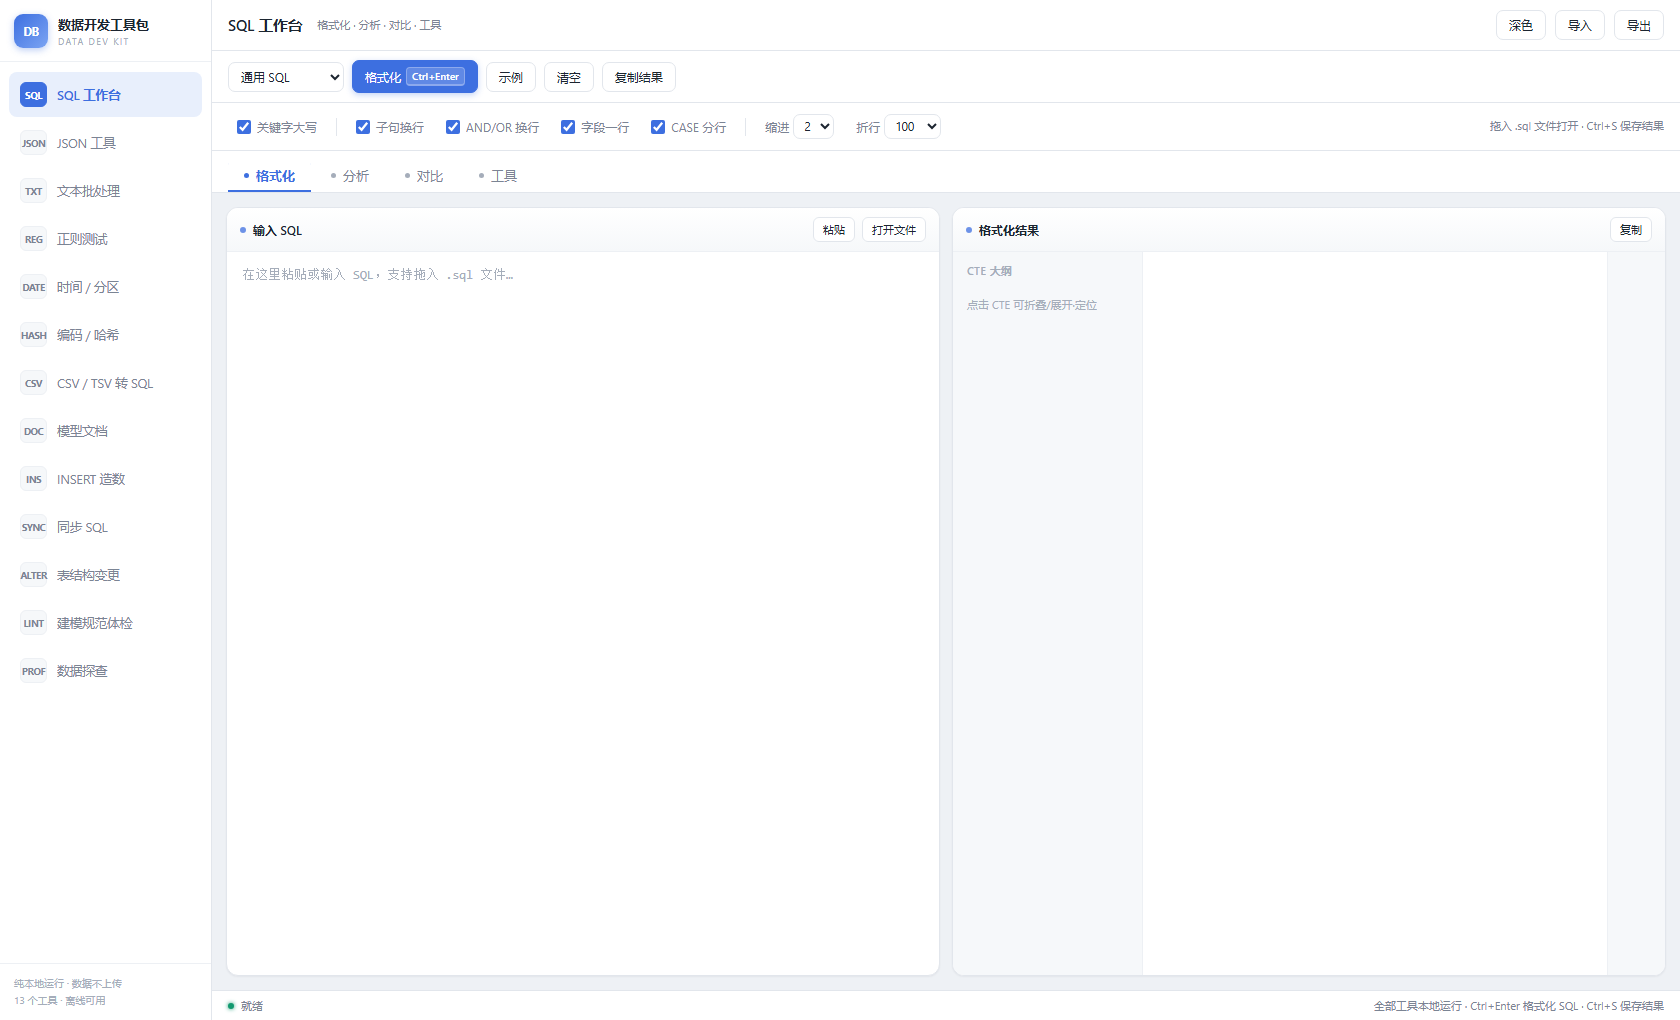
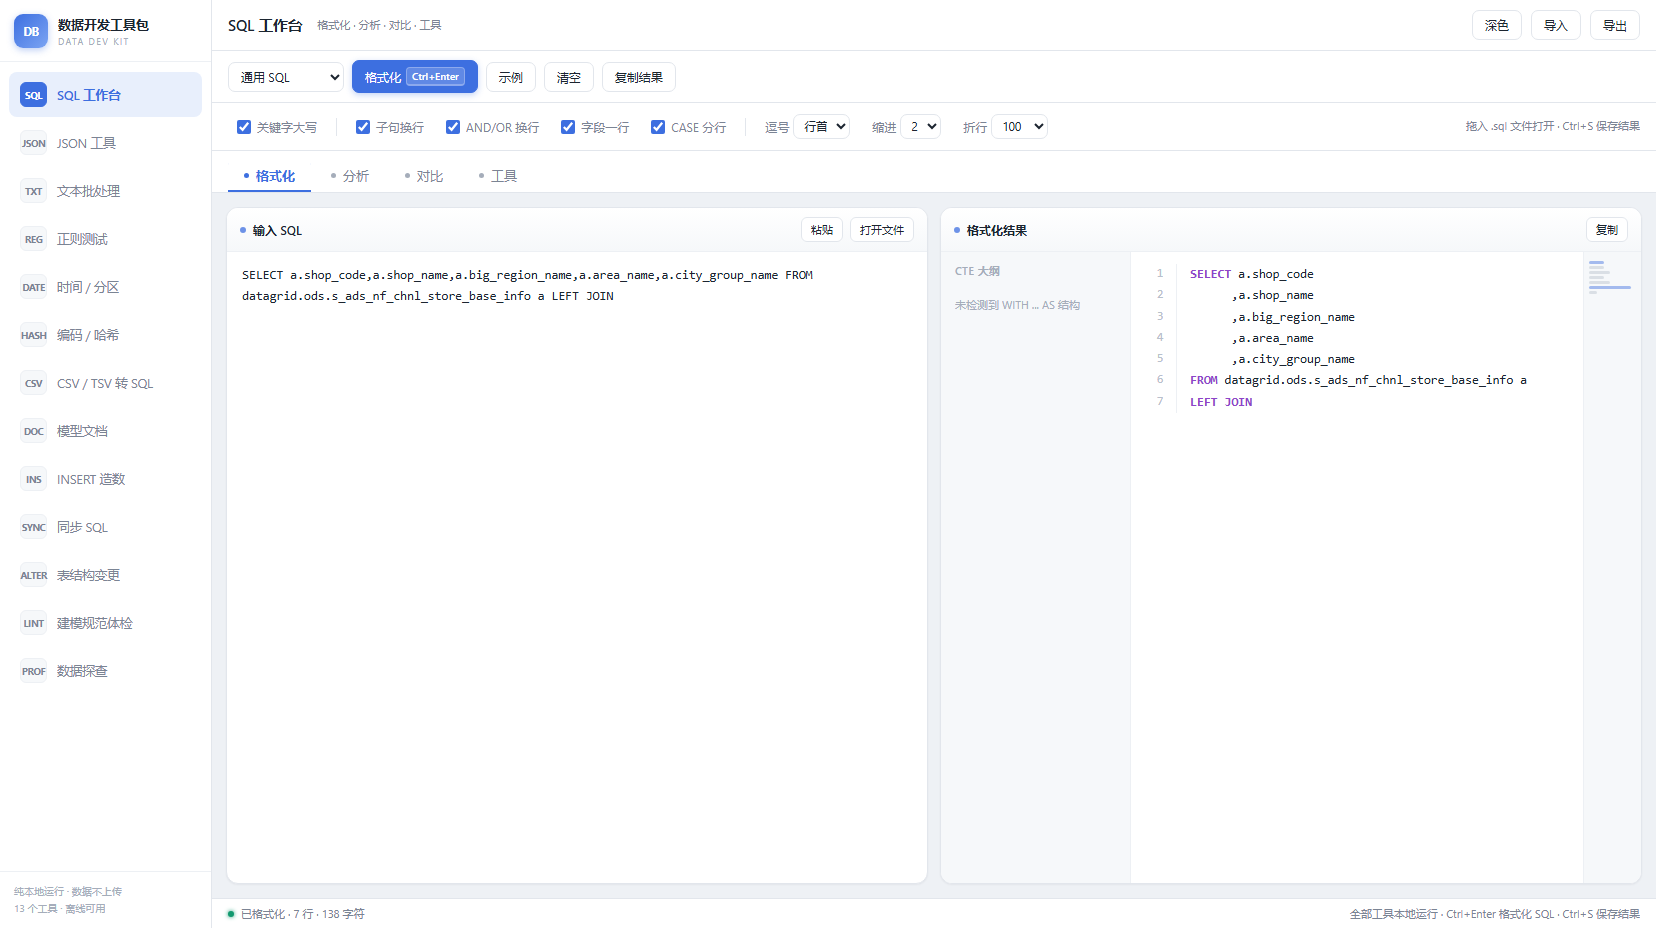
feat(fmt): 新增「行首逗号」格式风格
- formatter.js: 新增 commaStyle 选项（leading / trailing），leading 时首字段与 SELECT 同行，续行逗号左对齐到首字段前一列，逗号后不留空格
- 支持 pad 绝对列宽渲染（文本、高亮、折行三处），CASE 在续行时按 pad 换算缩进
- index.html: 选项栏新增「逗号」下拉，opts/collectCfg/loadCfg 同步
- README: 补充逗号风格说明
- 行尾风格输出与旧版逐字节一致（回归 16 组组合验证）

diff --git a/formatter.js b/formatter.js
@@ -237,11 +237,11 @@
     var out = [];
     for (var li = 0; li < lines.length; li++) {
       var ln = lines[li];
-      var len = ln.indent * indentSize;
+      var len = (ln.pad != null) ? ln.pad : ln.indent * indentSize;
       for (var q = 0; q < ln.parts.length; q++) len += ln.parts[q].text.length;
       if (len <= maxWidth) { out.push(ln); continue; }
-      var cur = { indent: ln.indent, parts: [] };
-      var curLen = ln.indent * indentSize;
+      var cur = (ln.pad != null) ? { pad: ln.pad, parts: [] } : { indent: ln.indent, parts: [] };
+      var curLen = (ln.pad != null) ? ln.pad : ln.indent * indentSize;
       var depth = 0;
       for (var pi = 0; pi < ln.parts.length; pi++) {
         var p = ln.parts[pi];
@@ -252,8 +252,8 @@
         else if (v === ')') depth = Math.max(0, depth - 1);
         if (v === ',' && depth === 0 && curLen > maxWidth * 0.65) {
           out.push(cur);
-          cur = { indent: ln.indent + 1, parts: [] };
-          curLen = (ln.indent + 1) * indentSize;
+          cur = (ln.pad != null) ? { pad: ln.pad, parts: [] } : { indent: ln.indent + 1, parts: [] };
+          curLen = (ln.pad != null) ? ln.pad : (ln.indent + 1) * indentSize;
         }
       }
       if (cur.parts.length) out.push(cur);
@@ -270,6 +270,8 @@
     var maxWidth = options.maxWidth || 100;
     var fieldPerLine = options.fieldPerLine !== false;   // SELECT 列表一字段一行
     var casePerLine = options.casePerLine !== false;     // CASE 每个 WHEN 一行
+    // 逗号位置：'trailing' 行尾（默认），'leading' 行首且首字段跟在 SELECT 同一行
+    var commaStyle = options.commaStyle === 'leading' ? 'leading' : 'trailing';
     var ctx = makeContext(options.dialect || 'generic');
     var KW = ctx.kw, FN = ctx.fn, CLAUSES = ctx.clauses;
 
@@ -282,14 +284,28 @@
     var stmtLevel = 0, stmtIndent = 0, cteStack = [], afterCteClose = false;
     var caseStack = [];                       // CASE 起始行缩进
     var listDepth = -1, listIndent = 0;       // 正在拆行的字段列表（-1 表示无）
+    var leadCommaPad = -1;                    // 行首逗号风格的续行列宽（-1 表示不启用）
+    var noSpaceNext = false;                  // 行首逗号后紧跟字段，不要空格
 
     function newLine(level) {
       if (cur.parts.length) lines.push(cur);
       cur = { indent: level, parts: [] };
       prev = null;
     }
+    // 行首逗号风格：续行按绝对列宽对齐（pad），而不是按缩进层级
+    function newLinePad(col) {
+      if (cur.parts.length) lines.push(cur);
+      cur = { indent: 0, pad: col, parts: [] };
+      prev = null;
+    }
+    function curWidth() {
+      var total = (cur.pad != null) ? cur.pad : cur.indent * indentSize;
+      for (var q = 0; q < cur.parts.length; q++) total += cur.parts[q].text.length;
+      return total;
+    }
     function add(t, cls, forceSpace) {
       var space = forceSpace === undefined ? defaultSpace(t, prev, KW, FN) : forceSpace;
+      if (noSpaceNext) { space = false; noSpaceNext = false; }
       var text = (cur.parts.length && space ? ' ' : '') + t.value;
       cur.parts.push({ text: text, cls: cls });
       prev = t;
@@ -305,7 +321,7 @@
       if (clauseLines && parenDepth === stmtLevel && caseDepth === 0) {
         var plen = matchPhrase(tokens, i, CLAUSES);
         if (plen > 0) {
-          listDepth = -1;
+          listDepth = -1; leadCommaPad = -1;
           newLine(stmtIndent);
           for (var k = 0; k < plen; k++) {
             var pt = tokens[i + k];
@@ -321,8 +337,13 @@
             }
             if (countFields(tokens, i + 1, CLAUSES) > 1) {
               listDepth = parenDepth;
-              listIndent = stmtIndent + 1;
-              newLine(listIndent);
+              if (commaStyle === 'leading') {
+                // 首字段留在 SELECT 这一行，续行逗号对齐到首字段前一位
+                leadCommaPad = curWidth();
+              } else {
+                listIndent = stmtIndent + 1;
+                newLine(listIndent);
+              }
             }
           }
           continue;
@@ -339,9 +360,11 @@
 
       // CASE ... WHEN ... ELSE ... END：一个 WHEN 一行，ELSE 一行，END 与 CASE 对齐
       if (t.type === 'word' && up === 'CASE') {
+        // 行首逗号风格下续行用 pad 绝对列宽，换算成等效缩进层级给 WHEN/END 用
+        var caseLvl = (cur.pad != null) ? Math.floor(cur.pad / (indentSize || 2)) : cur.indent;
         add({ type: 'word', value: w(up) }, 'kw');
         caseDepth++;
-        caseStack.push(cur.indent);
+        caseStack.push(caseLvl);
         continue;
       }
       if (t.type === 'word' && up === 'WHEN' && caseDepth > 0) {
@@ -371,6 +394,13 @@
 
       // 字段列表：同层逗号后换行（配合 SELECT 一字段一行）
       if (listDepth >= 0 && t.value === ',' && parenDepth === listDepth) {
+        if (commaStyle === 'leading' && leadCommaPad >= 0) {
+          // 逗号挪到下一行行首，紧跟字段（逗号后不留空格）
+          newLinePad(leadCommaPad);
+          add(t, 'punc', false);
+          noSpaceNext = true;
+          continue;
+        }
         add(t, 'punc');
         newLine(listIndent);
         continue;
@@ -391,7 +421,7 @@
 
       // CTE body close: `)` gets its own line at the CTE header level
       if (t.value === ')' && cteStack.length && parenDepth === stmtLevel) {
-        listDepth = -1;
+        listDepth = -1; leadCommaPad = -1;
         newLine(stmtIndent - 1);
         parenDepth--;
         add(t, 'punc');
@@ -413,7 +443,7 @@
       if (t.value === '(') { add(t, 'punc'); parenDepth++; continue; }
       if (t.value === ')') {
         parenDepth = Math.max(0, parenDepth - 1);
-        if (listDepth >= 0 && parenDepth < listDepth) listDepth = -1;
+        if (listDepth >= 0 && parenDepth < listDepth) { listDepth = -1; leadCommaPad = -1; }
         add(t, 'punc');
         continue;
       }
@@ -445,14 +475,15 @@
       if (t.value === ';' && i + 1 < tokens.length) {
         newLine(0);
         stmtLevel = 0; stmtIndent = 0; cteStack = []; afterCteClose = false;
-        caseStack = []; caseDepth = 0; betweenPending = 0; listDepth = -1;
+        caseStack = []; caseDepth = 0; betweenPending = 0; listDepth = -1; leadCommaPad = -1;
       }
     }
     if (cur.parts.length) lines.push(cur);
 
     lines = wrapLongLines(lines, maxWidth, indentSize);
     var text = lines.map(function (ln) {
-      return ' '.repeat(ln.indent * indentSize) + ln.parts.map(function (p) { return p.text; }).join('');
+      var lead = (ln.pad != null) ? ' '.repeat(ln.pad) : ' '.repeat(ln.indent * indentSize);
+      return lead + ln.parts.map(function (p) { return p.text; }).join('');
     }).join('\n');
 
     return { text: text, lines: lines, indentSize: indentSize };
@@ -465,7 +496,7 @@
   function toHtml(result) {
     var ind = ' '.repeat(result.indentSize);
     return result.lines.map(function (ln) {
-      var lead = ind.repeat(ln.indent);
+      var lead = (ln.pad != null) ? ' '.repeat(ln.pad) : ind.repeat(ln.indent);
       var body = ln.parts.map(function (p) {
         return '<span class="t-' + (p.cls || 'plain') + '">' + escapeHtml(p.text) + '</span>';
       }).join('');

diff --git a/index.html b/index.html
@@ -274,6 +274,7 @@
         <label><input type="checkbox" id="optFieldLine" checked> 字段一行</label>
         <label><input type="checkbox" id="optCaseLine" checked> CASE 分行</label>
         <div class="sep"></div>
+        <label class="opt-group">逗号 <select id="optComma"><option value="leading">行首</option><option value="trailing">行尾</option></select></label>
         <label class="opt-group">缩进 <select id="optIndent"><option value="2">2</option><option value="4">4</option><option value="0">0</option></select></label>
         <label class="opt-group">折行 <select id="optWidth"><option value="80">80</option><option value="100" selected>100</option><option value="120">120</option><option value="0">不限</option></select></label>
         <div class="spacer"></div>
@@ -748,6 +749,7 @@
   function opts(){
     return { upper:$('optUpper').checked, clauseLines:$('optClause').checked, wrapLogic:$('optLogic').checked,
       fieldPerLine:$('optFieldLine').checked, casePerLine:$('optCaseLine').checked,
+      commaStyle:$('optComma').value,
       indentSize:parseInt($('optIndent').value,10)||0, maxWidth:parseInt($('optWidth').value,10)||100000,
       dialect:$('dialect').value };
   }
@@ -887,7 +889,7 @@
     var w=prompt('替换结果：\n\n（点确定将替换输入框内容）', sql);
     if(w!==null){ input.value=w; doFormat(); }
   };
-  ['optUpper','optClause','optLogic','optFieldLine','optCaseLine','optIndent','optWidth','dialect'].forEach(function(id){ $(id).addEventListener('change',doFormat); });
+  ['optUpper','optClause','optLogic','optFieldLine','optCaseLine','optComma','optIndent','optWidth','dialect'].forEach(function(id){ $(id).addEventListener('change',doFormat); });
   input.addEventListener('input',schedule);
   input.addEventListener('keydown',function(e){
     if(e.key==='Tab'){e.preventDefault();var s=this.selectionStart,en=this.selectionEnd;this.value=this.value.slice(0,s)+'  '+this.value.slice(en);this.selectionStart=this.selectionEnd=s+2;schedule();}
@@ -906,7 +908,7 @@
   function applyTheme(t){ document.documentElement.setAttribute('data-theme',t); $('btnTheme').textContent=t==='dark'?'浅色':'深色'; localStorage.setItem('sqlwb-theme',t);
     var base=(document.title||'数据开发工具包').replace(/\u200B/g,''); document.title = base + (t==='dark' ? '\u200B' : ''); }
   $('btnTheme').onclick=function(){ applyTheme(document.documentElement.getAttribute('data-theme')==='dark'?'light':'dark'); };
-  function collectCfg(){ return {upper:$('optUpper').checked,clause:$('optClause').checked,logic:$('optLogic').checked,field:$('optFieldLine').checked,caseLine:$('optCaseLine').checked,indent:$('optIndent').value,width:$('optWidth').value,dialect:$('dialect').value,theme:document.documentElement.getAttribute('data-theme')||'light'}; }
+  function collectCfg(){ return {upper:$('optUpper').checked,clause:$('optClause').checked,logic:$('optLogic').checked,field:$('optFieldLine').checked,caseLine:$('optCaseLine').checked,comma:$('optComma').value,indent:$('optIndent').value,width:$('optWidth').value,dialect:$('dialect').value,theme:document.documentElement.getAttribute('data-theme')||'light'}; }
   function loadCfg(c){
     if(!c)return;
     if(c.upper!==undefined)$('optUpper').checked=c.upper;
@@ -914,6 +916,7 @@
     if(c.logic!==undefined)$('optLogic').checked=c.logic;
     if(c.field!==undefined)$('optFieldLine').checked=c.field;
     if(c.caseLine!==undefined)$('optCaseLine').checked=c.caseLine;
+    if(c.comma!==undefined)$('optComma').value=c.comma;
     if(c.indent!==undefined)$('optIndent').value=c.indent;
     if(c.width!==undefined)$('optWidth').value=c.width;
     if(c.dialect!==undefined)$('dialect').value=c.dialect;

diff --git a/README.md b/README.md
@@ -103,6 +103,7 @@
 - `Ctrl + S`：把当前工具的结果保存为本地文件（如 `ddl-change.sql`、`ddl-lint.md`、`profile.sql`）。
 - 顶部可切换 **浅色 / 深色** 主题，选择会被记住。
 - 各工具自带"示例"按钮，不知道怎么填时先点示例。
+- 格式化选项里的「逗号」：**行首**（默认，首字段跟 `SELECT` 同行，后续字段 `,col` 左对齐）或 **行尾**（经典 `col,` 风格），可随时切换。
 
 ---
 
